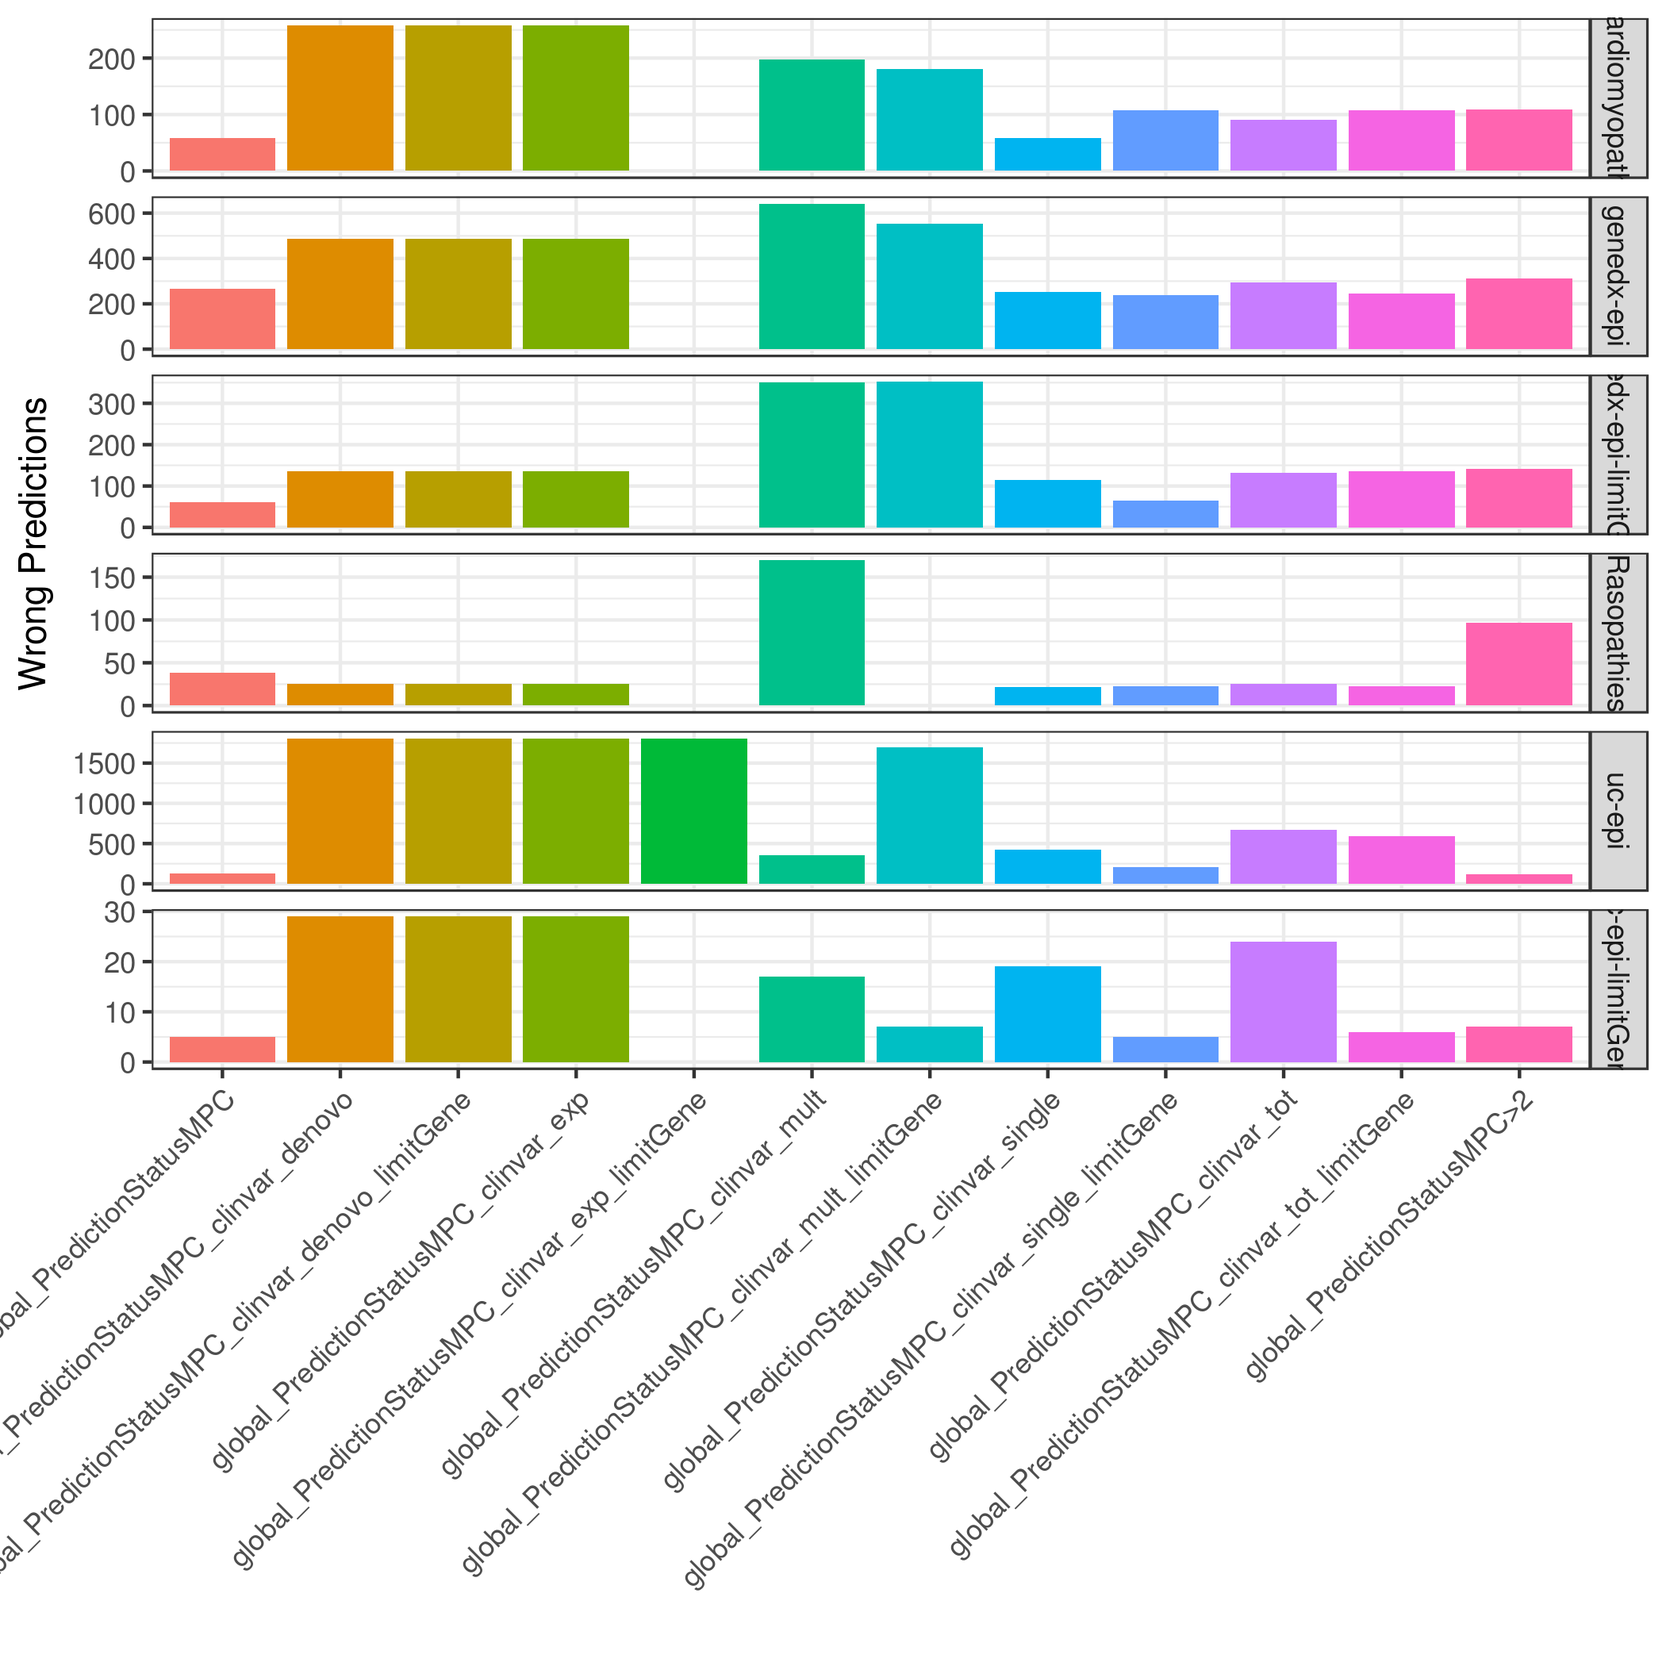
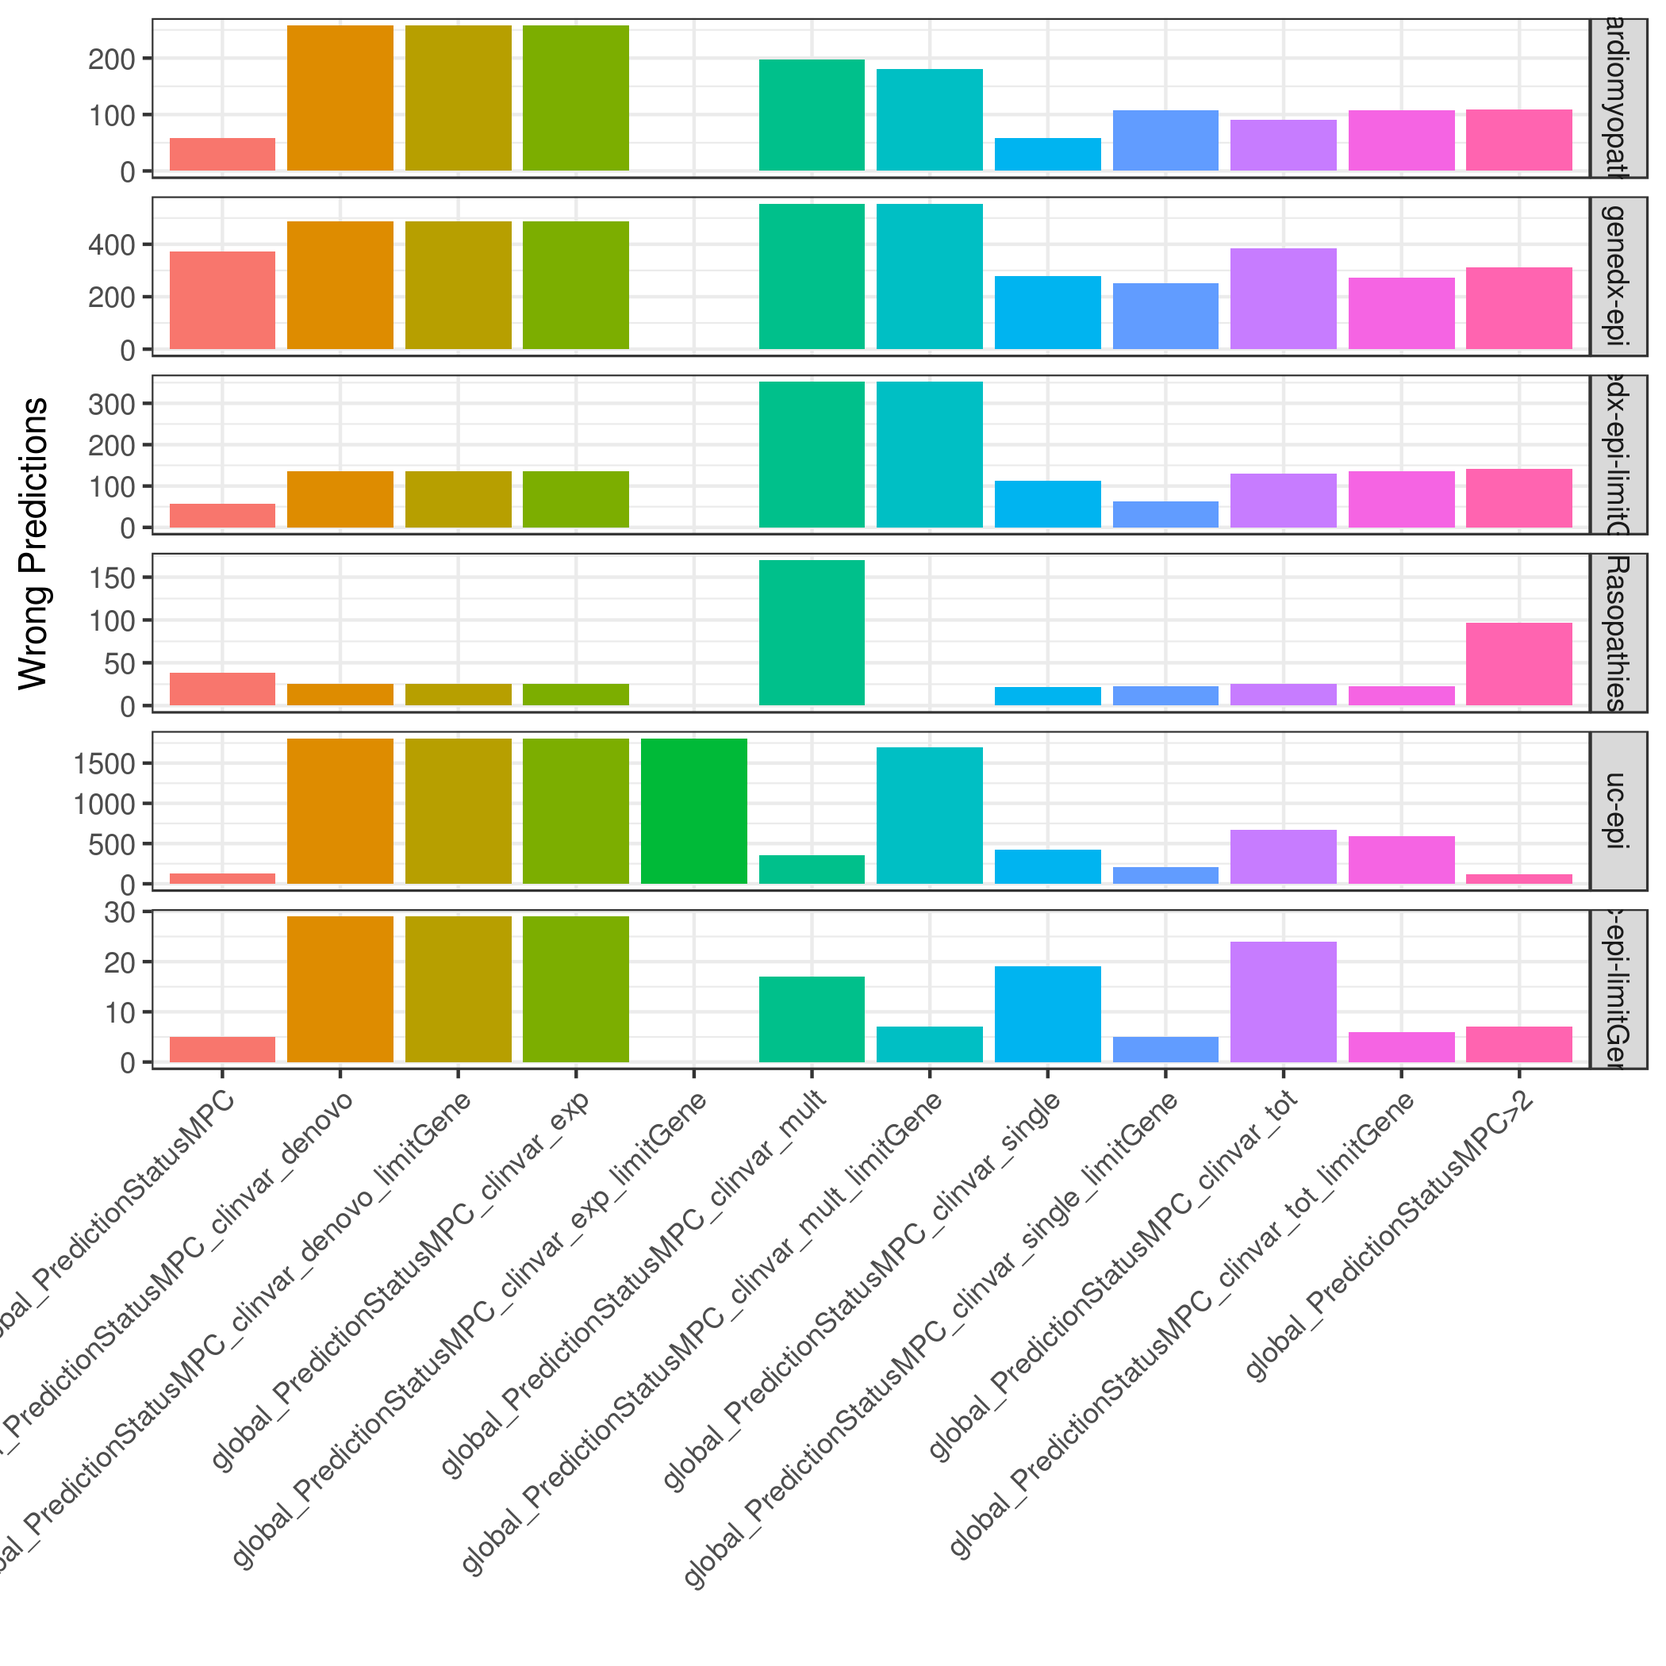
add ccr, but see that wrong fractions go over 1

Changed region(s): [[0.031, 0.1238, 0.3714, 0.1857], [0.5881, 0.1238, 0.9595, 0.1857], [0.5262, 0.1238, 0.5881, 0.1548]]

diff --git a/src/rules/sf_eval_ahmad.py b/src/rules/sf_eval_ahmad.py
@@ -4,7 +4,7 @@ import pandas as pd
 include: "const.py"
 include: "sf_eval_non_panel.py"
 
-rule percent_wrong:
+rule ahmad_percent_wrong:
     input:  panel = WORK + '{method}.eval_panel.{cols}.eval',
             non_panel = expand( WORK + '{{method}}.eval_{dat}.{{cols}}.eval', \
                                 dat=('clinvar', 'denovo', 'clinvar_mult', 'clinvar_single', 'clinvar_exp') )
@@ -31,12 +31,29 @@ rule percent_wrong:
             if score_type == 'global_PredictionStatusMPC>2':
                 return 'paper_' + wildcards.cols
             elif '::' in score_type:
-                return 'predict_' + score_type.split('::')[0]
+#                if not 'no_disease' in score_type:
+                return 'predict_' + score_type.split('::')[0] + '_' + wildcards.cols
+                # else:
+                #     prefix = 'panel_indep_'
+                #     if '>2' in score_type:
+                #         return prefix + 'paper_' + wildcards.cols
+                #     return prefix + 'self-trained'               
+                
             elif score_type == 'global_PredictionStatusMPC':
-                return 'panel-trained'
+                return 'panel-trained_' + wildcards.cols
             elif 'global' == score_type[:6]:
                 return score_type.replace('global_PredictionStatusMPC', 'train_with')
-            return score_type            
+            return score_type
+
+        def rename_disease(disease, score_type):
+            if disease == 'no_disease':
+                if '_holdOut' in score_type:
+                    return 'self-trained'
+                elif '>2' in score_type:
+                    return 'paper-cutoff'
+                else:
+                    i = 1/0                    
+            return disease
                 
         non_panel_dfs = pd.concat( [load_other_df(afile) for afile in input.non_panel] )
         non_panel_dfs['color'] = 'predict clinvar'
@@ -48,11 +65,20 @@ rule percent_wrong:
         panel_df['color'] = 'predict_panel'
         m = pd.concat([panel_df, non_panel_dfs])
         m.loc[:, 'st'] = m.apply(lambda row: rename_score(row['score_type']), axis=1)
-        crit = m.apply(lambda row: not row['disease'] in ('ALL', 'no_disease')
+        m.loc[:, 'dis'] = m.apply(lambda row: rename_disease(row['disease'], row['score_type']), axis=1)
+        crit = m.apply(lambda row: not row['disease'] in ('ALL',)
                        and not 'earing' in row['disease']
-                       and not 'issue' in row['disease'],
+                       and not 'issue' in row['disease']
+                       and not ('no_disease' == row['disease'] and '>2' in row['score_type'])
+                       and row['color'] != 'predict clinvar',
                        axis=1)
         m[crit].to_csv(output.o, index=False, sep='\t')
+
+rule concat_extra:
+    input:  expand( WORK + 'global.{cols}.eval_panel.eval.percentWrong', cols=('mpc', 'revel', 'mpc-revel', 'ccr', 'mpc-revel-ccr', 'mpc-ccr', 'revel-mpc'))
+    output: o = WORK + 'cc'
+    run:
+        pd.concat([pd.read_csv(afile, sep='\t') for afile in list(input)]).drop_duplicates().to_csv(output.o, index=False, sep='\t')
 
 rule plot_ahmad:
     input:  WORK + '{method}.{cols}.eval_panel.eval.percentWrong'
@@ -63,13 +89,30 @@ rule plot_ahmad:
           d = read.delim("{input}", sep='\t', header=TRUE)
           p = ggplot(data=d) +
           geom_col(aes(y=percent_wrong, x=st, fill=color)) +
-          facet_grid(disease~.) + theme_bw() +
+          facet_grid(dis~.) + theme_bw() +
           theme(axis.text.x = element_text(angle=90, hjust=1)) +
           ylab('Wrong prediction fraction') +
           xlab('') + theme(legend.position="none") + coord_flip()
-          ggsave("{output}", p, height=10)
+          ggsave("{output}", p, height=15)
           """)
 
+rule plot_ahmad2:
+    input:  WORK + 'cc'
+    output: DOCS + 'plot/global.byDisease.png'
+    run:
+        R("""
+          require(ggplot2)
+          d = read.delim("{input}", sep='\t', header=TRUE)
+          p = ggplot(data=d) +
+          geom_col(aes(y=percent_wrong, x=st, fill=color)) +
+          facet_grid(dis~.) + theme_bw() +
+          theme(axis.text.x = element_text(angle=90, hjust=1)) +
+          ylab('Wrong prediction fraction') +
+          xlab('') + theme(legend.position="none") + coord_flip()
+          ggsave("{output}", p, height=15)
+          """)
+
+        
 rule all_ahmad:
     input: expand( DOCS + 'plot/{method}.{cols}.byDisease.png', method=('global',), cols=('mpc', 'revel', 'mpc-revel') )
                    

diff --git a/src/rules/sf_eval_non_panel.py b/src/rules/sf_eval_non_panel.py
@@ -13,6 +13,48 @@ rule eval_clinvar_global:
             WORK + 'global.eval_{dat}.{cols}.eval'
     shell:  'python {SCRIPTS}score_other_global_model.py {wildcards.cols} {input} {output}'
 
+# rule other_percent_wrong:
+#     input:  expand( WORK + '{{method}}.eval_{dat}.{{cols}}.eval', \
+#                     dat=('clinvar', 'denovo', 'clinvar_mult', 'clinvar_single', 'clinvar_exp') )
+#     output: o = WORK + '{method}.{cols}.eval_panel.eval.percentWrong'
+#     run:
+#         def calc_wrong_percent(rows):
+#             tot_wrong = list(rows[rows.eval_type == 'TotWrong']['var_count'].values)[0]
+#             tot_preds = sum(rows[rows.eval_type != 'TotWrong']['var_count'])
+#             # print('tw', tot_wrong)
+#             # print('s', tot_preds)
+#             return tot_wrong/tot_preds
+
+#         def load_other_df(afile):
+#             panel_df = (pd.read_csv(afile, sep='\t')
+#                         .groupby(('clinvar_type', 'disease', 'score_type'))
+#                         .apply(calc_wrong_percent)
+#                         .reset_index()
+#                         .rename(columns={0:'percent_wrong', 'score_type':'score_type_pre'}) )
+#             panel_df['st'] = panel_df.apply(lambda row: row['score_type_pre'].split(row['disease'])[0], axis=1)
+#             panel_df['score_type'] = panel_df['clinvar_type'] + '::' + panel_df['st']
+#             return panel_df[['disease', 'percent_wrong', 'score_type']]
+
+#         def rename_score(score_type):
+#             if score_type == 'global_PredictionStatusMPC>2':
+#                 return 'paper_' + wildcards.cols
+#             elif '::' in score_type:
+#                 return 'predict_' + score_type.split('::')[0]
+#             elif score_type == 'global_PredictionStatusMPC':
+#                 return 'panel-trained'
+#             elif 'global' == score_type[:6]:
+#                 return score_type.replace('global_PredictionStatusMPC', 'train_with')
+#             return score_type            
+                
+#         non_panel_dfs = pd.concat( [load_other_df(afile) for afile in input.non_panel] )
+#         non_panel_dfs['color'] = 'predict clinvar'
+#         non_panel_dfs.loc[:, 'st'] = non_panel_dfs.apply(lambda row: rename_score(row['score_type']), axis=1)
+#         crit = m.apply(lambda row: not row['disease'] in ('ALL', 'no_disease')
+#                        and not 'earing' in row['disease']
+#                        and not 'issue' in row['disease'],
+#                        axis=1)
+#         m[crit].to_csv(output.o, index=False, sep='\t')
+
 rule limit_for_plot:
     input:  WORK + '{method}.eval_{dat}.{cols}.eval'
     output: WORK + '{method}.eval_{dat}.{cols}.totWrong'
@@ -41,5 +83,5 @@ rule plot:
           """)
 
 rule all_eval:
-    input: expand( DOCS + 'plot/{method}.other.{cols}.totWrong.png', method=('global',), cols=('mpc', 'revel', 'mpc-revel') )
+    input: expand( DOCS + 'plot/{method}.other.{cols}.totWrong.png', method=('global',), cols=('mpc', 'revel', 'mpc-revel', 'ccr', 'mpc-revel-ccr', 'mpc-ccr', 'revel-mpc') )
     

diff --git a/src/rules/sf_ann.py b/src/rules/sf_ann.py
@@ -141,8 +141,8 @@ rule parse_vcf:
            o2 = DATA + 'interim/{lab}.eff.dbnsfp.anno.hHack.splitPfam.dat'
    run:
        with open(input.i) as f, open(output.o, 'w') as fout, open(output.o2, 'w') as fout_split_pfam:
-           print('chrom\tpos\tref\talt\tclin_class\tpfam\taf_1kg_all\teff\tpos_fam\tneg_fam\tgene\tmpc\tmtr\trevel\texac_af\texac_ac\texac_an\texac_cov_frac\tkaviar_af\tc.\tProtein_Change\tHugo_Symbol', file=fout)
-           print('chrom\tpos\tref\talt\tclin_class\tpfam\taf_1kg_all\teff\tpos_fam\tneg_fam\tgene\tmpc\tmtr\trevel',
+           print('chrom\tpos\tref\talt\tclin_class\tpfam\taf_1kg_all\teff\tpos_fam\tneg_fam\tgene\tmpc\tmtr\trevel\texac_af\texac_ac\texac_an\texac_cov_frac\tkaviar_af\tc.\tProtein_Change\tHugo_Symbol\tccr', file=fout)
+           print('chrom\tpos\tref\talt\tclin_class\tpfam\taf_1kg_all\teff\tpos_fam\tneg_fam\tgene\tmpc\tmtr\trevel\tccr',
                  file=fout_split_pfam)
            for line in f:
                if not line[0] == '#':
@@ -165,6 +165,10 @@ rule parse_vcf:
                        exac_an = info.split('an_exac_all=')[1].split(';')[0]
                    if 'ac_exac_all' in info:
                        exac_ac = info.split('ac_exac_all=')[1].split(';')[0]
+
+                   ccr = '-1'
+                   if 'ccr_pct' in info:
+                       ccr = info.split('ccr_pct=')[1].split(';')[0]
 
                    mpc = '0'
                    if 'mpc=' in info:
@@ -206,11 +210,11 @@ rule parse_vcf:
                    gene = info.split('EFF=')[1].split(';')[0].split(',')[0].split('|')[-6]
                    ls = (chrom, pos, ref, alt, clin, pfam, onekg, eff, pos_fam,
                          neg_fam, gene, mpc, mtr, revel, exac_af, exac_ac, exac_an,
-                         exac_cov_frac, kv_af, c_dot, protein_change, gene)
+                         exac_cov_frac, kv_af, c_dot, protein_change, gene, ccr)
                    print('\t'.join(ls), file=fout)
 
                    for p in pfam.split(','):
-                       ls = (chrom, pos, ref, alt, clin, p, onekg, eff, pos_fam, neg_fam, gene, mpc, mtr, revel)
+                       ls = (chrom, pos, ref, alt, clin, p, onekg, eff, pos_fam, neg_fam, gene, mpc, mtr, revel, ccr)
                        print('\t'.join(ls), file=fout_split_pfam)
 
 def mk_class(row):

diff --git a/src/rules/sf_other_disease.py b/src/rules/sf_other_disease.py
@@ -89,8 +89,8 @@ rule parse_vcf:
            o2 = DATA + 'interim/other/{lab}.eff.dbnsfp.anno.hHack.splitPfam.dat'
    run:
        with open(input.i) as f, open(output.o, 'w') as fout, open(output.o2, 'w') as fout_split_pfam:
-           print('chrom\tpos\tref\talt\tclin_class\tpfam\taf_1kg_all\teff\tgene\tmpc\tmtr\trevel\texac_af\texac_ac\texac_an\texac_cov_frac\tkaviar_af\tProtein_Change\tHugo_Symbol', file=fout)
-           print('chrom\tpos\tref\talt\tclin_class\tpfam\taf_1kg_all\teff\tgene\tmpc\tmtr\trevel',
+           print('chrom\tpos\tref\talt\tclin_class\tpfam\taf_1kg_all\teff\tgene\tmpc\tmtr\trevel\texac_af\texac_ac\texac_an\texac_cov_frac\tkaviar_af\tProtein_Change\tHugo_Symbol\tccr', file=fout)
+           print('chrom\tpos\tref\talt\tclin_class\tpfam\taf_1kg_all\teff\tgene\tmpc\tmtr\trevel\tccr',
                  file=fout_split_pfam)
            for line in f:
                if not line[0] == '#':
@@ -111,6 +111,10 @@ rule parse_vcf:
                        exac_an = info.split('an_exac_all=')[1].split(';')[0]
                    if 'ac_exac_all' in info:
                        exac_ac = info.split('ac_exac_all=')[1].split(';')[0]
+
+                   ccr = '-1'
+                   if 'ccr_pct' in info:
+                       ccr = info.split('ccr_pct=')[1].split(';')[0]
 
                    mpc = '0'
                    if 'mpc=' in info:
@@ -147,11 +151,11 @@ rule parse_vcf:
                    gene = info.split('EFF=')[1].split(';')[0].split(',')[0].split('|')[-6]
                    ls = (chrom, pos, ref, alt, clin, pfam, onekg, eff,
                          gene, mpc, mtr, revel, exac_af, exac_ac, exac_an,
-                         exac_cov_frac, kv_af, protein_change, gene)
+                         exac_cov_frac, kv_af, protein_change, gene, ccr)
                    print('\t'.join(ls), file=fout)
 
                    for p in pfam.split(','):
-                       ls = (chrom, pos, ref, alt, clin, p, onekg, eff, gene, mpc, mtr, revel)
+                       ls = (chrom, pos, ref, alt, clin, p, onekg, eff, gene, mpc, mtr, revel, ccr)
                        print('\t'.join(ls), file=fout_split_pfam)
 
 def mk_class(row):

diff --git a/src/rules/sf_clinvar.py b/src/rules/sf_clinvar.py
@@ -49,10 +49,14 @@ rule parse_clinvar_vcf:
    output: o = DATA + 'interim/clinvar/clinvar.dat'
    run:
        with open(input.i) as f, open(output.o, 'w') as fout:
-           print('chrom\tpos\tref\talt\tpfam\teff\tclinSig\taf_1kg_all\tgene\tmpc\tmtr\tProtein_Change\tconfidence\trevel', file=fout)
+           print('chrom\tpos\tref\talt\tpfam\teff\tclinSig\taf_1kg_all\tgene\tmpc\tmtr\tProtein_Change\tconfidence\trevel\tccr', file=fout)
            for line in f:
                if line[0] != '#':
                    chrom, pos, j1, ref, alt, j2, j3, info = line.strip().split('\t')
+
+                   ccr = '-1'
+                   if 'ccr_pct' in info:
+                       ccr = info.split('ccr_pct=')[1].split(';')[0]
 
                    mtr = '0'
                    if 'mtr=' in info:
@@ -84,7 +88,7 @@ rule parse_clinvar_vcf:
 
                    eff = info.split('EFF=')[1].split(';')[0].split('(')[0]
                    gene = info.split('EFF=')[1].split(';')[0].split(',')[0].split('|')[-6]
-                   ls = (chrom, pos, ref, alt, pfam, eff, clin_sig, onekg, gene, mpc, mtr, protein_change, confidence, revel)
+                   ls = (chrom, pos, ref, alt, pfam, eff, clin_sig, onekg, gene, mpc, mtr, protein_change, confidence, revel, ccr)
                    print('\t'.join(ls), file=fout)
 
 def calc_final_sig(row):

diff --git a/src/rules/sf_denovo.py b/src/rules/sf_denovo.py
@@ -51,10 +51,14 @@ rule parse_denovo_vcf:
     output: o = DATA + 'interim/denovo/denovo.dat'
     run:
         with open(input.i) as f, open(output.o, 'w') as fout:
-           print('chrom\tpos\tref\talt\tpfam\teff\taf_1kg_all\tgene\tmpc\tmtr\tProtein_Change\trevel', file=fout)
+           print('chrom\tpos\tref\talt\tpfam\teff\taf_1kg_all\tgene\tmpc\tmtr\tProtein_Change\trevel\tccr', file=fout)
            for line in f:
                if line[0] != '#':
                    chrom, pos, j1, ref, alt, j2, j3, info = line.strip().split('\t')
+
+                   ccr = '-1'
+                   if 'ccr_pct' in info:
+                       ccr = info.split('ccr_pct=')[1].split(';')[0]
 
                    mtr = '0'
                    if 'mtr=' in info:
@@ -83,7 +87,7 @@ rule parse_denovo_vcf:
 
                    eff = info.split('EFF=')[1].split(';')[0].split('(')[0]
                    gene = info.split('EFF=')[1].split(';')[0].split(',')[0].split('|')[-6]
-                   ls = (chrom, pos, ref, alt, pfam, eff, onekg, gene, mpc, mtr, protein_change, revel)
+                   ls = (chrom, pos, ref, alt, pfam, eff, onekg, gene, mpc, mtr, protein_change, revel, ccr)
                    print('\t'.join(ls), file=fout)
 
 # focus genes and missense                   

diff --git a/src/scripts/score_panel_global_model.py b/src/scripts/score_panel_global_model.py
@@ -28,7 +28,7 @@ def eval_pred(row, col):
 
 def mk_basic_call(row, score_cols):
     """Call is pathogenic/1 if all scores are met"""
-    cutoffs = {'mpc':2, 'revel':.375}
+    cutoffs = {'mpc':2, 'revel':.375, 'ccr':.9}
     for col in score_cols:
         if row[col] < cutoffs[col]:
             return 0
@@ -74,7 +74,7 @@ def print_data_stats(disease, clinvar_df_pre_ls, disease_df, fout, clin_labels):
     return [x[0] for x in clin_dat], [x[1] for x in clin_dat]
 
 def eval_clinvar(label, cols, clinvar_df, disease_df):
-    print(label, clinvar_df.columns.values)
+    #print(label, clinvar_df.columns.values)
     if len(clinvar_df):
         # train clinvar
         tree_clf_clinvar = tree.DecisionTreeClassifier( max_depth=len(cols) )
@@ -84,6 +84,7 @@ def eval_clinvar(label, cols, clinvar_df, disease_df):
         X_test = disease_df[cols]
         print(X_test)
         preds = tree_clf_clinvar.predict(X_test)
+        
         disease_df['mpc_pred_clinvar_' + label] = preds
         disease_df.loc[:, 'PredictionStatusMPC_clinvar_' + label] = disease_df.apply(lambda row: eval_pred(row, 'mpc_pred_clinvar_' + label), axis=1)
 

diff --git a/src/rules/sf_eval_panel.py b/src/rules/sf_eval_panel.py
@@ -43,7 +43,7 @@ rule plot:
           """)
 
 rule all_eval:
-    input: expand( DOCS + 'plot/{method}.eval_panel.{cols}.totWrong.png', method=('global',), cols=('mpc', 'revel', 'mpc-revel') )
+    input: expand( DOCS + 'plot/{method}.eval_panel.{cols}.totWrong.png', method=('global',), cols=('mpc', 'revel', 'mpc-revel', 'ccr', 'mpc-revel-ccr', 'mpc-ccr', 'revel-mpc') )
 
 # ggplot(data=d) + geom_col(aes(y=var_count,x=score_type, fill=score_type)) + facet_grid(disease~., scale='free') + theme_bw() + ylab('Wrong Predictions') + theme(axis.text.x = element_text(angle=90)) + xlab('') + theme(legend.position="none")    
 

diff --git a/src/scripts/score_other_global_model.py b/src/scripts/score_other_global_model.py
@@ -28,7 +28,7 @@ def eval_pred(row, col):
 
 def mk_basic_call(row, score_cols):
     """Call is pathogenic/1 if all scores are met"""
-    cutoffs = {'mpc':2, 'revel':.375}
+    cutoffs = {'mpc':2, 'revel':.375, 'ccr':.9}
     for col in score_cols:
         if row[col] < cutoffs[col]:
             return 0
